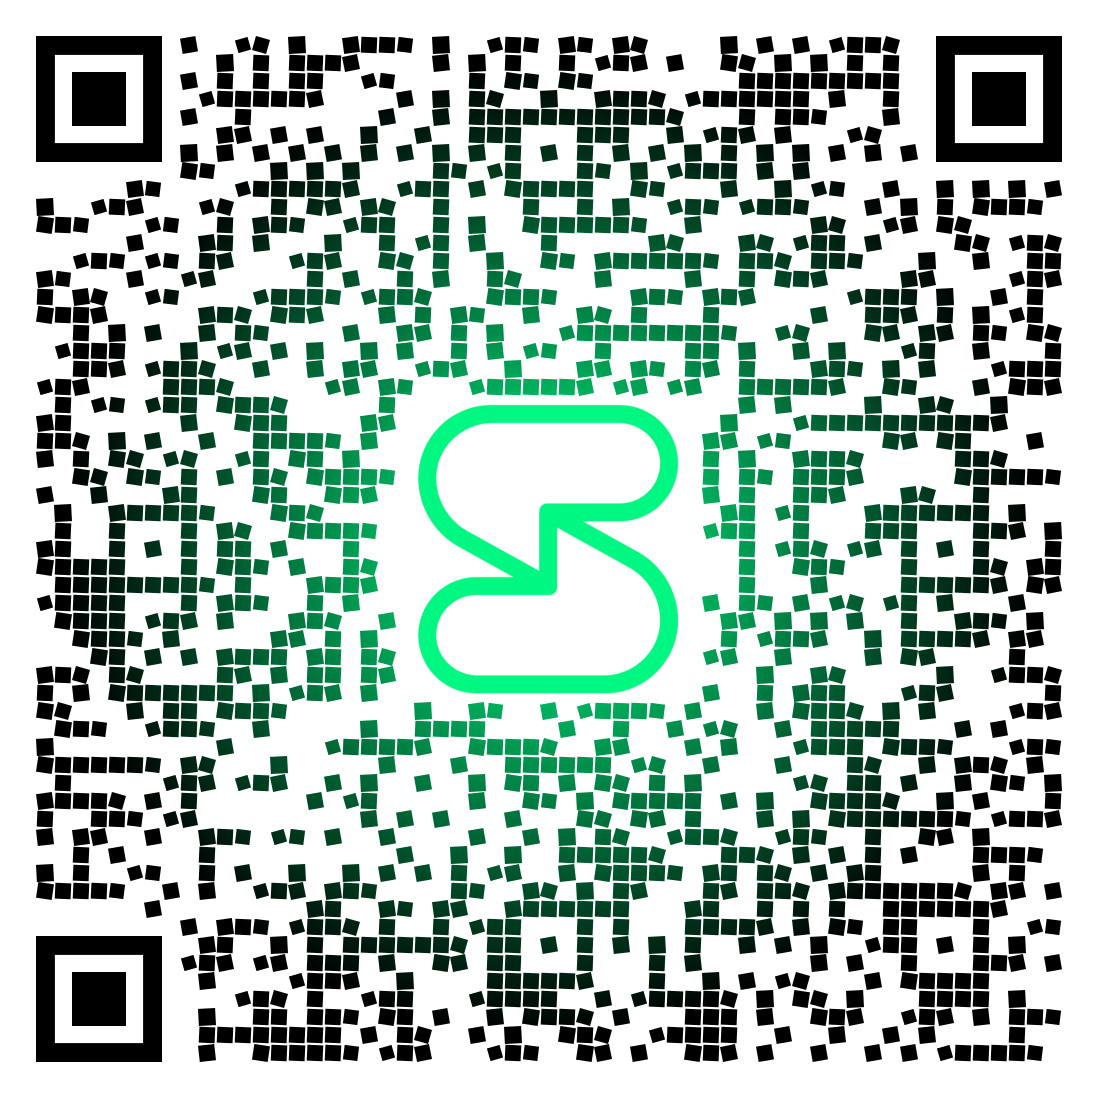
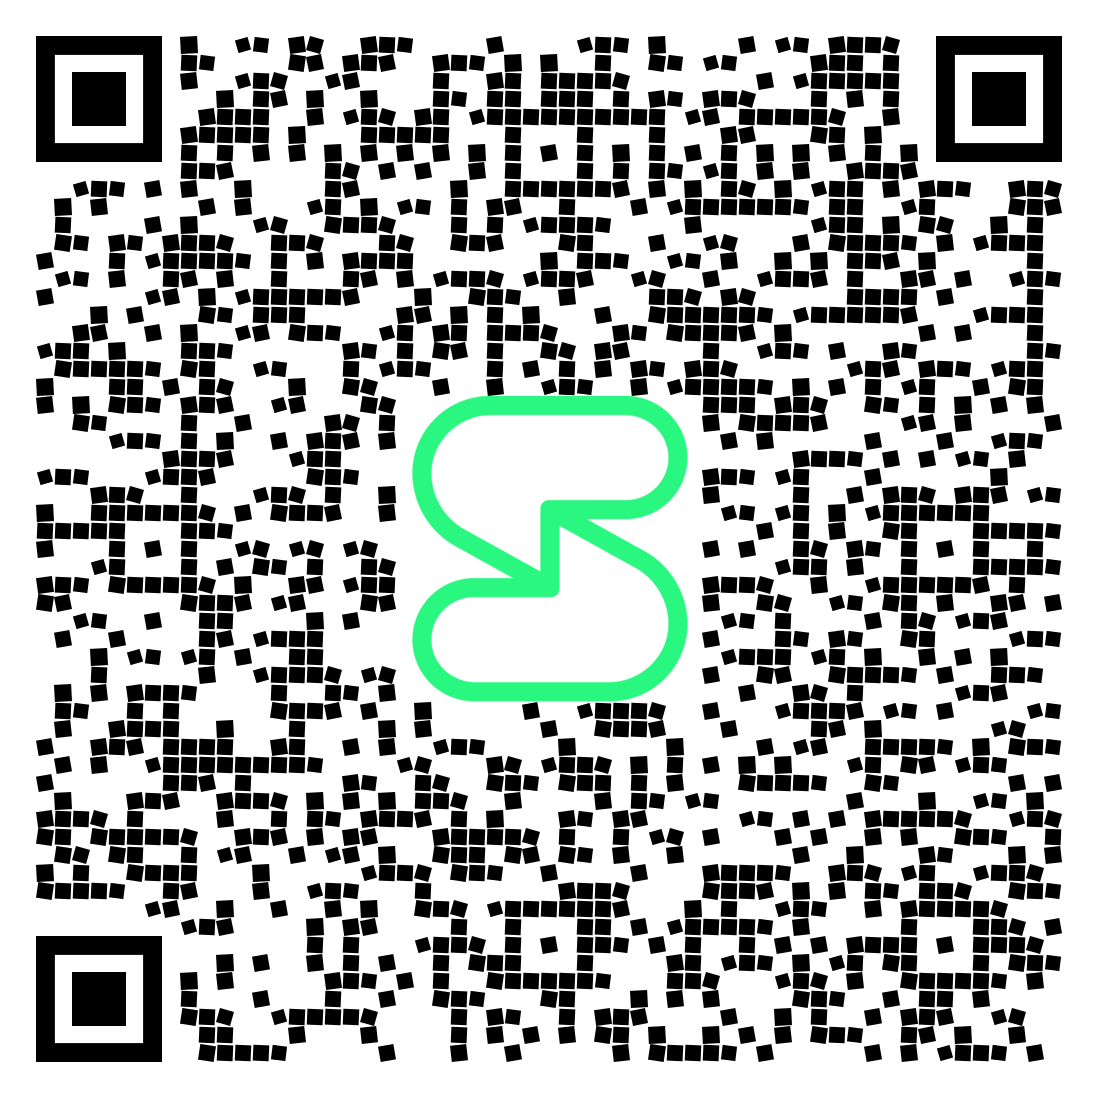
updated session open group link and qr-code

diff --git a/pages/session-open-group.tsx b/pages/session-open-group.tsx
@@ -3,20 +3,19 @@ import { ReactElement, useState } from 'react';
 
 import Container from '@/components/Container';
 import Image from 'next/image';
+import { LINKS } from '@/constants';
 import METADATA from '@/constants/metadata';
 import classNames from 'classnames';
 import { copyToClipboard } from '@/utils/clipboard';
 
 export default function OpenGroup(): ReactElement {
-  const openGroupURL =
-    'http://116.203.70.33/session?public_key=a03c383cf63c3c4efe67acc52112a6dd734b3a946b9545f488aaa93da7991238'; // TODO move into constants
   const [isCopied, setIsCopied] = useState(false);
   const handleCopy = () => {
     if (isCopied) {
       setIsCopied(false);
       return;
     }
-    copyToClipboard(openGroupURL, setIsCopied);
+    copyToClipboard(LINKS.SESSION.OPEN_GROUP_SERVER, setIsCopied);
   };
   return (
     <Layout title="Open Group Channel" metadata={METADATA.OPEN_GROUP_PAGE}>

diff --git a/constants/index.ts b/constants/index.ts
@@ -1,6 +1,7 @@
 import CMS from './cms';
+import LINKS from './links';
 import METADATA from './metadata';
 import NAVIGATION from './navigation';
 import UI from './ui';
 
-export { CMS, UI, METADATA, NAVIGATION };
+export { CMS, UI, LINKS, METADATA, NAVIGATION };

diff --git a/constants/links.ts b/constants/links.ts
@@ -1,0 +1,8 @@
+const LINKS = {
+  SESSION: {
+    OPEN_GROUP_SERVER:
+      'http://open.getsession.org/session?public_key=a03c383cf63c3c4efe67acc52112a6dd734b3a946b9545f488aaa93da7991238',
+  },
+};
+
+export default LINKS;
